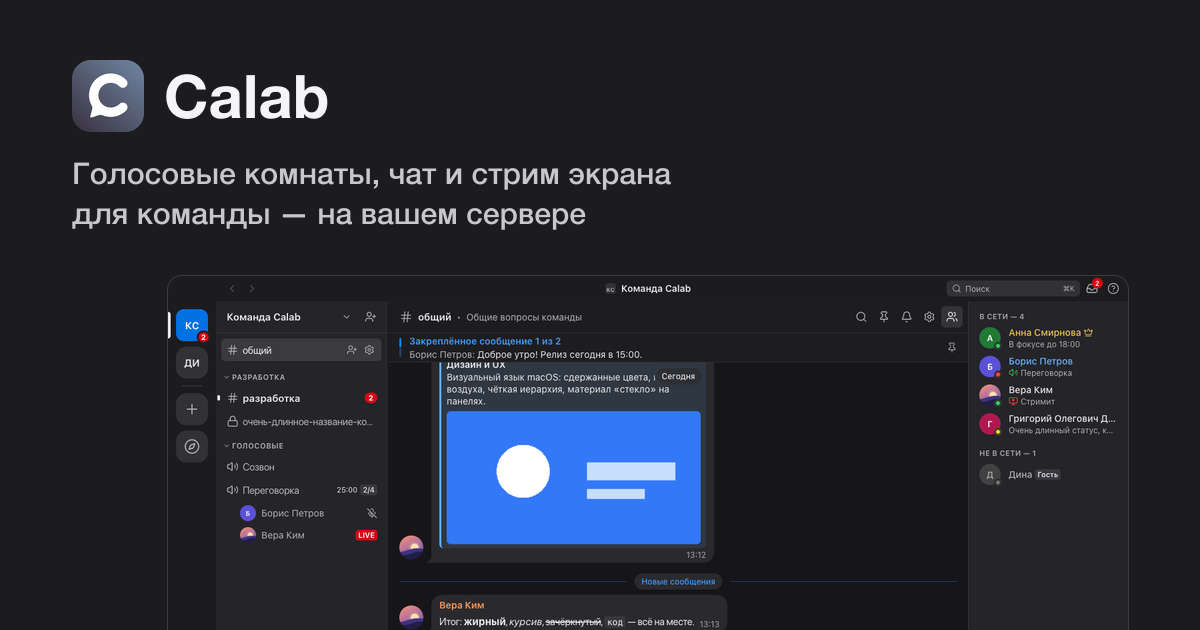
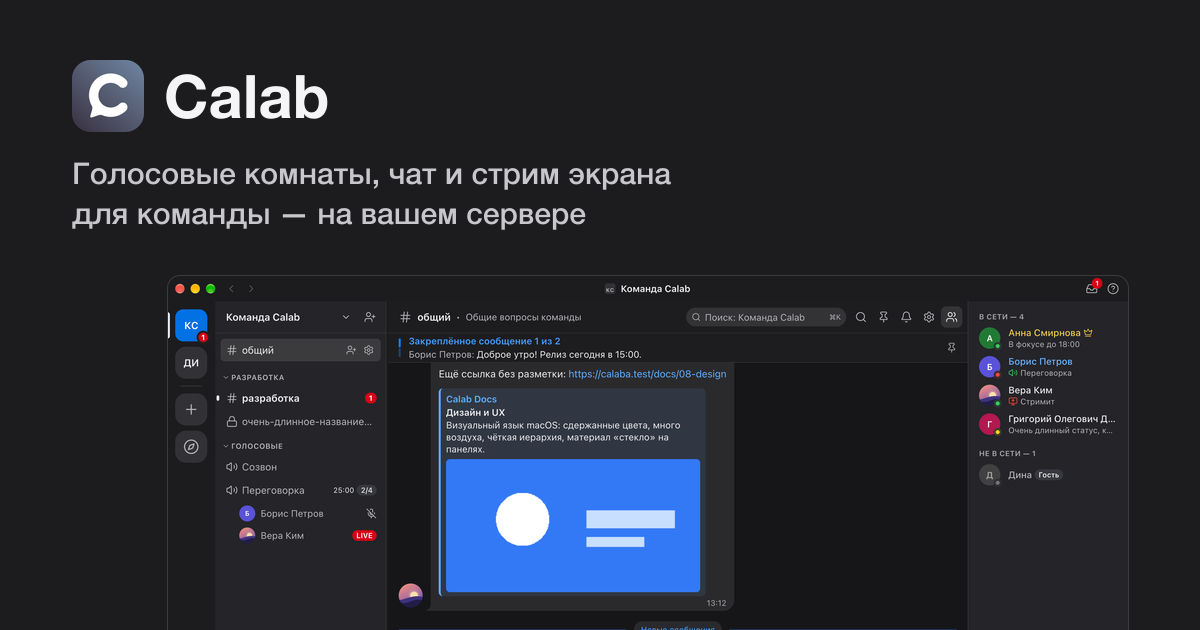
landing: 2x Retina images from docs/images macOS screenshots (srcset 1x/2x), real window frame in hero, OG from 2x source

diff --git a/apps/landing/src/components/hero.tsx b/apps/landing/src/components/hero.tsx
@@ -1,10 +1,9 @@
 import { APP_URL } from '@/lib/site';
 import { Button, Container, ThemedImage } from './ui';
-import { MacWindow } from './window';
 
 export function Hero() {
   return (
-    <section id="top" aria-labelledby="hero-title" className="hero-bg overflow-hidden pt-16 pb-20 sm:pt-24 sm:pb-28">
+    <section id="top" aria-labelledby="hero-title" className="hero-bg overflow-hidden pt-16 pb-12 sm:pt-24 sm:pb-16">
       <Container className="text-center">
         <img src="/icon-512.png" alt="" width={96} height={96} className="mx-auto size-20 sm:size-24" />
         <h1 id="hero-title" className="mt-6 text-[48px] leading-[56px] font-bold tracking-tight sm:text-[64px] sm:leading-[72px]">
@@ -23,17 +22,16 @@ export function Hero() {
         </div>
         <p className="mt-4 text-[14px] leading-5 text-fg-2">macOS, Windows, Linux и браузер</p>
       </Container>
-      <Container className="mt-12 sm:mt-16">
-        <div className="mx-auto max-w-[1080px]">
-          <MacWindow>
-            <ThemedImage
-              name="hero"
-              width={1440}
-              height={800}
-              priority
-              alt="Окно Calab: список комнат с голосовой комнатой «Переговорка», чат канала «общий» и участники в сети"
-            />
-          </MacWindow>
+      <Container className="mt-8 sm:mt-10">
+        {/* Real macOS window capture with the system shadow (margins included in the image). */}
+        <div className="mx-auto max-w-[1160px]">
+          <ThemedImage
+            name="hero"
+            width={1552}
+            height={983}
+            priority
+            alt="Окно Calab: пространство «Команда Calab», канал «общий» с сообщениями и участники в сети"
+          />
         </div>
       </Container>
     </section>

diff --git a/apps/landing/src/components/features.tsx b/apps/landing/src/components/features.tsx
@@ -21,13 +21,13 @@ const features: Feature[] = [
     icon: MonitorUp,
     title: 'Стрим экрана в AV1',
     text: '720p, 1080p или исходное разрешение. Статичный текст и код — 20–300 кбит/с, поэтому экран читается и на мобильном интернете. До трёх стримов в комнате.',
-    shot: { name: 'stream', alt: 'Настройки комнаты: битрейт голоса, максимальное качество стрима и число стримов' },
+    shot: { name: 'stream', alt: 'Голосовая комната «Переговорка» с участниками и идущим стримом экрана с меткой LIVE' },
   },
   {
     icon: MessagesSquare,
     title: 'Чат как в Telegram',
     text: 'Файлы, реакции, ответы, закрепы, упоминания и поиск. У каждой голосовой комнаты есть свой чат.',
-    shot: { name: 'chat', alt: 'Контекстное меню сообщения с реакциями, ответом и закреплением' },
+    shot: { name: 'chat', alt: 'Лента сообщений: форматирование, упоминание @here и поле ввода' },
   },
   {
     icon: ShieldCheck,

diff --git a/apps/landing/src/components/ui.tsx b/apps/landing/src/components/ui.tsx
@@ -65,7 +65,11 @@ export function Button({ href, children, variant = 'primary', size = 'md', class
   );
 }
 
-/** Light/dark screenshot pair switched by prefers-color-scheme. */
+/**
+ * Light/dark screenshot pair switched by prefers-color-scheme. Sources are 2x (Retina) captures;
+ * `<name>-<theme>@2x.webp` is the full-resolution file, `<name>-<theme>.webp` a 1x Lanczos resample.
+ * width/height are CSS pixels (half of the 2x pixel size).
+ */
 export function ThemedImage({
   name,
   alt,
@@ -81,11 +85,13 @@ export function ThemedImage({
   priority?: boolean;
   className?: string;
 }) {
+  const set = (theme: 'dark' | 'light') => `/screens/${name}-${theme}.webp 1x, /screens/${name}-${theme}@2x.webp 2x`;
   return (
     <picture>
-      <source srcSet={`/screens/${name}-dark.webp`} media="(prefers-color-scheme: dark)" />
+      <source srcSet={set('dark')} media="(prefers-color-scheme: dark)" />
       <img
-        src={`/screens/${name}-light.webp`}
+        src={`/screens/${name}-light@2x.webp`}
+        srcSet={set('light')}
         alt={alt}
         width={width}
         height={height}

diff --git a/apps/landing/README.md b/apps/landing/README.md
@@ -32,15 +32,16 @@ without JS (the Next runtime chunk still ships, ~100 kB).
 
 ## Updating screenshots
 
-Images come from the desktop visual-regression snapshots
-(`apps/desktop/e2e-visual/__screenshots__/darwin/*-{dark,light}-1440.png`, 1440×800 @1x):
+Sources are the shared 2x (Retina) macOS window captures in `docs/images/` (also used by the root README):
+`chat`, `stream`, `settings`, `onboarding` as `<name>-{dark,light}@2x.png` (2880×1800, window 1440×900 pt,
+`screencapture -l` without shadow) and `chat-{dark,light}-shadow@2x.png` for the hero.
 
-1. Update the snapshots in `apps/desktop` (its visual tests).
-2. `pnpm -F @calaba/landing assets` — `scripts/assets.mjs` copies the hero (`main-chat`) and crops four
-   660×400 feature images (`onboarding-mode`, `voice-room-settings-2`, `chat-context-menu`, `room-settings-3`)
-   into `public/screens/<name>-{dark,light}.webp`, and composes the 1200×630 `public/og.png`.
-   If the app layout moved, adjust the crop rectangles in the script and check the result.
-3. Rebuild and commit `public/`.
+1. Replace the PNGs in `docs/images/` (keep names; PNG > 3 MB → `oxipng` / `pngquant --quality 90-100`).
+2. `pnpm -F @calaba/landing assets` — `scripts/assets.mjs` writes `public/screens/<name>-<theme>@2x.webp` at full
+   resolution (no downscale, WebP q92) plus a 1x Lanczos resample `<name>-<theme>.webp`; feature cards are crops
+   (660×400 pt → 1320×800 px) whose offsets are in window points at the top of the script — check them when the
+   app layout changes. The 1200×630 `public/og.png` is composed from the 2x chat capture.
+3. Pages use `srcset` 1x/2x with `width`/`height` in CSS pixels. Rebuild and commit `public/`.
 
 ## TODO
 
